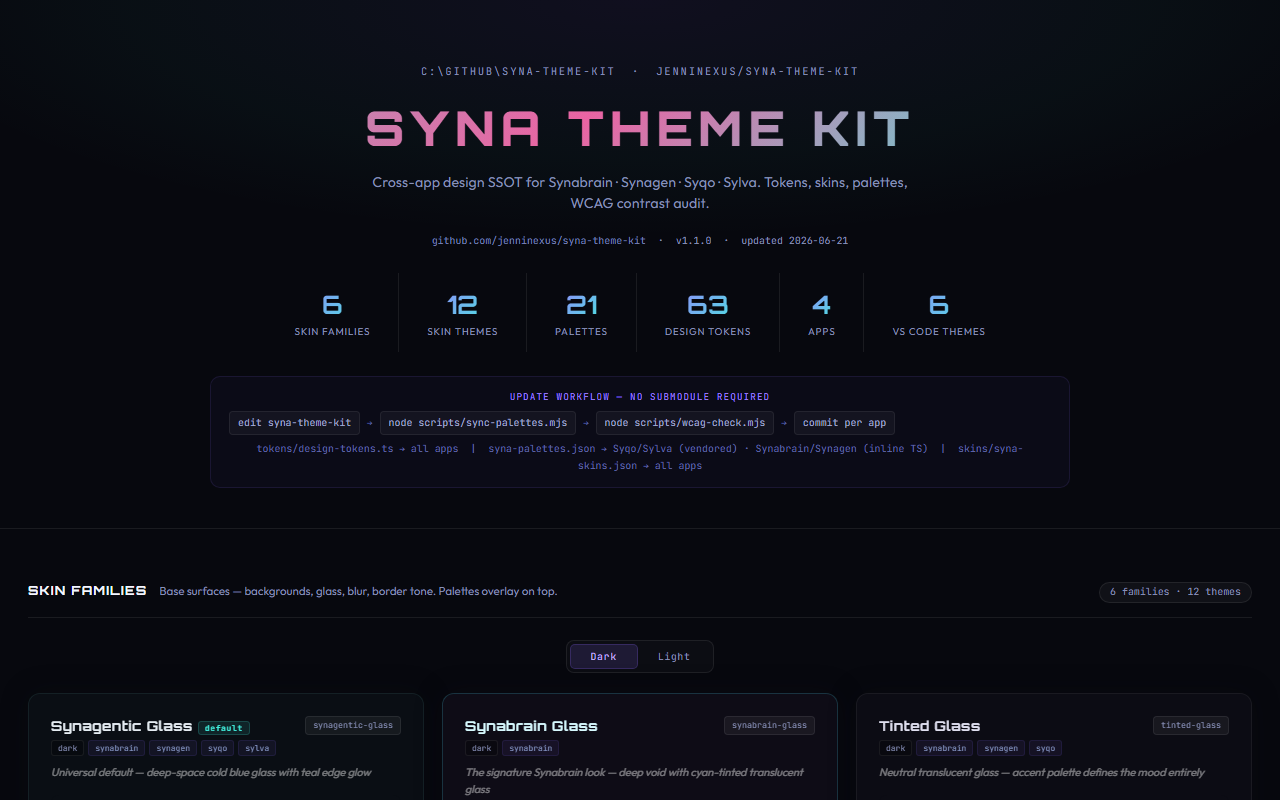
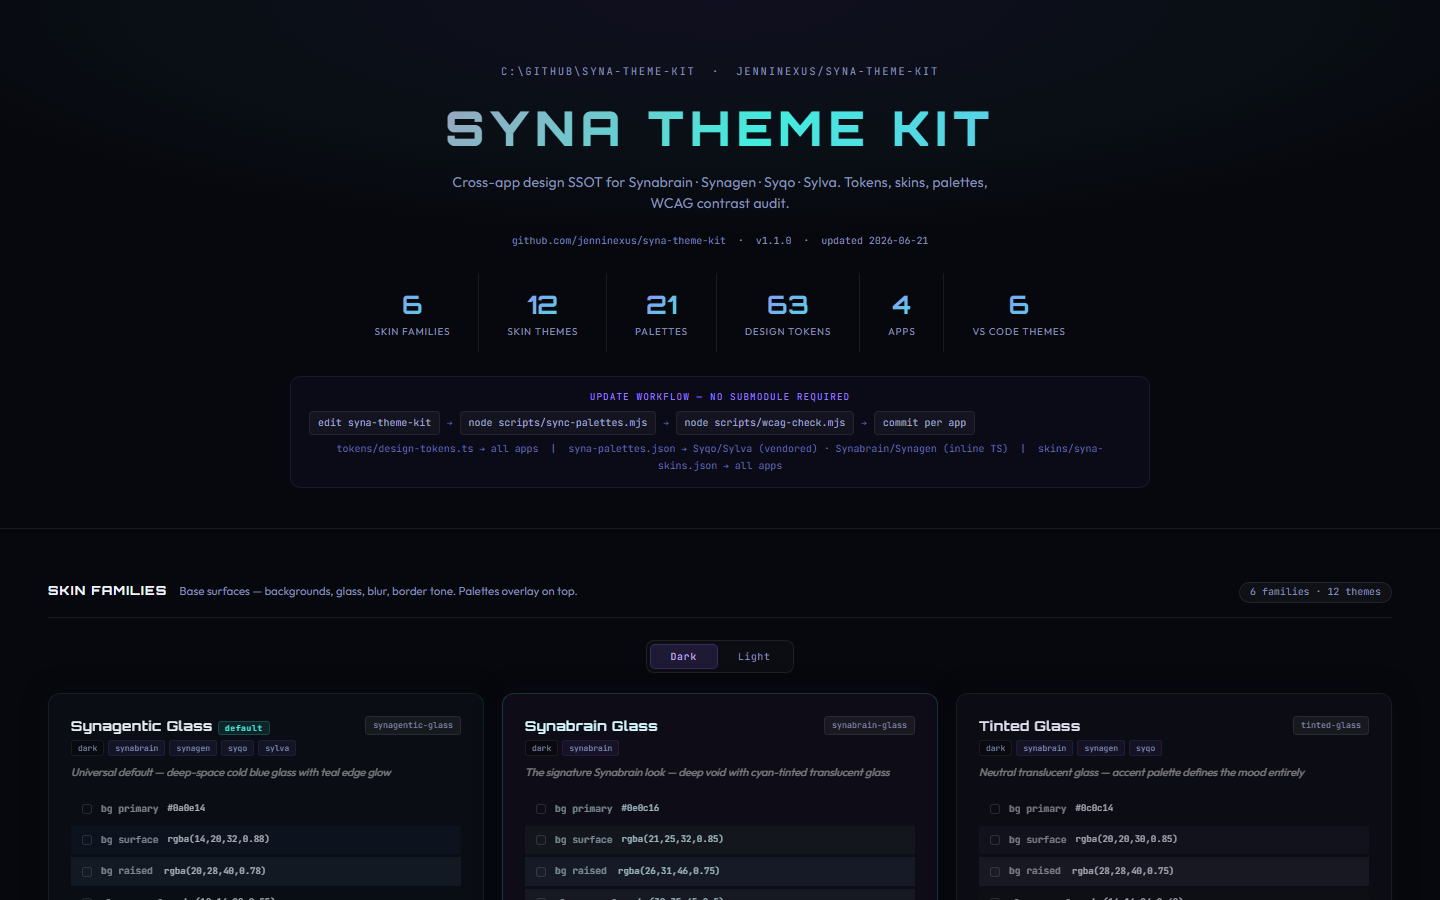
feat(assets): v3 recapture — element screenshots, individual theme cards, cleaner marketplace set
Marketplace screenshots (package.json):
- Reordered: hero → all-themes-grid → skin-families → palettes (4 shots, no redundancy)
- Dropped syn_theme-cards-mid + syn_vscode-themes-v3 (both were stale hero dupes)
- All 4 remaining shots are element.screenshot() — no scroll cutoff, full content visible

New: assets/media/themes/ — individual card shots for each of the 6 themes
- Clean isolated card with theme colors, used in README theme table
- Replaces the old full-VS-Code screenshots with stale explorer sidebar

README:
- Theme table now points to assets/media/themes/syn_*.png (crisp individual cards)
- Palette section uses syn_palettes.png (full 21-palette grid element shot)

.vscodeignore: exclude assets/media/ and assets/swatches/ from VSIX (not needed in extension package)

diff --git a/README.md b/README.md
@@ -40,11 +40,11 @@ ext install jenninexus.synagraphic-themes
 
 | | |
 |:---:|:---:|
-| ![Void Circuit](https://raw.githubusercontent.com/jenninexus/syn-themes/main/assets/media/syn_void-circuit.png) | ![Neon Decay](https://raw.githubusercontent.com/jenninexus/syn-themes/main/assets/media/syn_neon-decay.png) |
+| ![Void Circuit](https://raw.githubusercontent.com/jenninexus/syn-themes/main/assets/media/themes/syn_void-circuit.png) | ![Neon Decay](https://raw.githubusercontent.com/jenninexus/syn-themes/main/assets/media/themes/syn_neon-decay.png) |
 | **Void Circuit** — muted violet circuits on black void | **Neon Decay** — industrial cyan + magenta |
-| ![Ghost Protocol](https://raw.githubusercontent.com/jenninexus/syn-themes/main/assets/media/syn_ghost-protocol.png) | ![Plasma Drift](https://raw.githubusercontent.com/jenninexus/syn-themes/main/assets/media/syn_plasma-drift.png) |
+| ![Ghost Protocol](https://raw.githubusercontent.com/jenninexus/syn-themes/main/assets/media/themes/syn_ghost-protocol.png) | ![Plasma Drift](https://raw.githubusercontent.com/jenninexus/syn-themes/main/assets/media/themes/syn_plasma-drift.png) |
 | **Ghost Protocol** — cold blue operative stealth | **Plasma Drift** — bright violet plasma on deep purple void |
-| ![Acid Rain](https://raw.githubusercontent.com/jenninexus/syn-themes/main/assets/media/syn_acid-rain.png) | ![Martian](https://raw.githubusercontent.com/jenninexus/syn-themes/main/assets/media/syn_martian.png) |
+| ![Acid Rain](https://raw.githubusercontent.com/jenninexus/syn-themes/main/assets/media/themes/syn_acid-rain.png) | ![Martian](https://raw.githubusercontent.com/jenninexus/syn-themes/main/assets/media/themes/syn_martian.png) |
 | **Acid Rain** — neon turquoise storm, blue-green acid blend | **Martian** — warm black, orange fire, purple energy, teal circuits |
 
 ---
@@ -53,7 +53,7 @@ ext install jenninexus.synagraphic-themes
 
 <div align="center">
 
-<img src="https://raw.githubusercontent.com/jenninexus/syn-themes/main/assets/swatches/all-swatches.png" alt="All 21 Syn Themes accent palettes" width="100%">
+<img src="https://raw.githubusercontent.com/jenninexus/syn-themes/main/assets/media/syn_palettes.png" alt="All 21 Syn Themes accent palettes" width="100%">
 
 </div>
 
